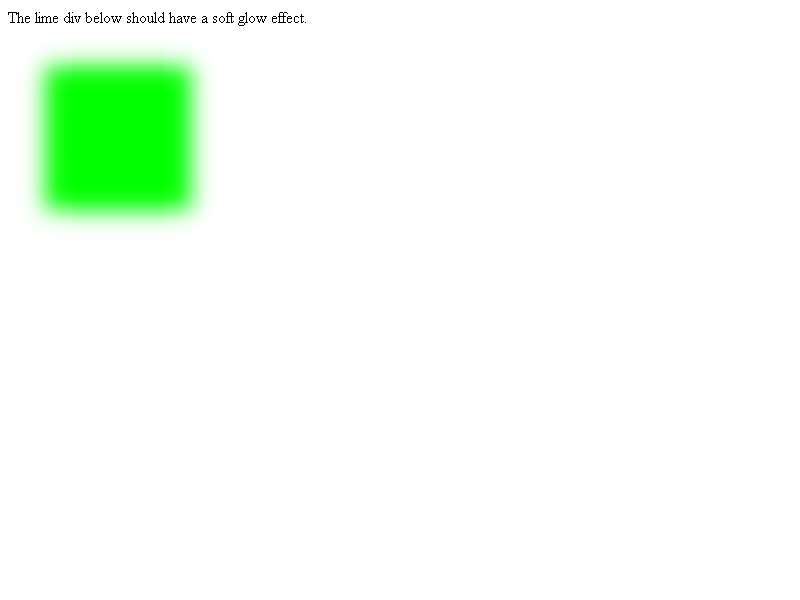
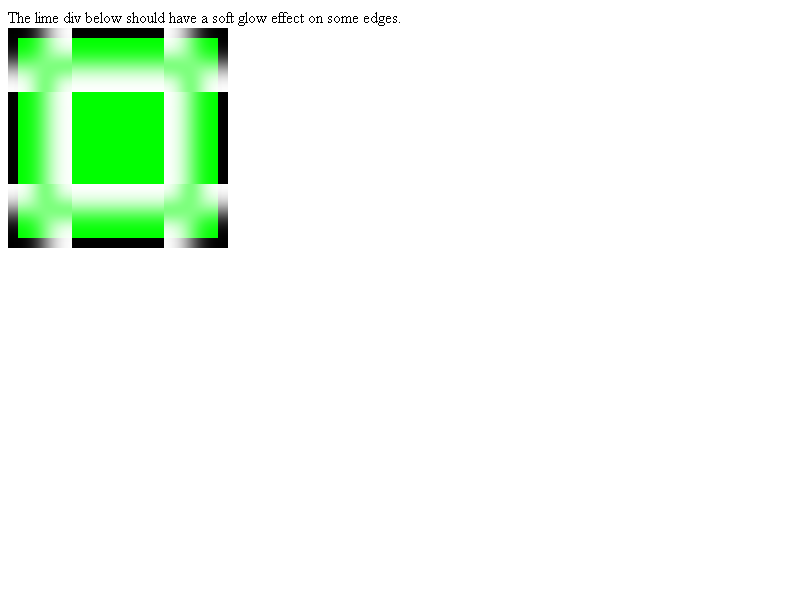
Keep mask bounds expanded to edges of div to fully mask dest_rect.
Mask execution closely follows background execution, which results in the
size of the mask being reduced to the exact size requested, rather than
filling out the dest_rect in BackgroundImageGeography::SetNoRepeatX and
::SetNoRepeatY. This CL puts the mask in the correct location, then
when we are creating the shader in image.cc, if the mask doesn't fill
out the dest_rect, decal tilemode is used to fill the rest with
transparency, which allows the mask to fill the full area.

Regarding the change to the fast/backgrounds/mask-composite.html test:
This change results in the original test failing, displaying the same
thing that it displays when using source-out. Based on my understanding
of how the 'copy' Porter-Duff keyword works, I believe this is correct
and that the test previously had an incorrect baseline because of this
bug. My understanding is that, if mask-composite is 'copy', then regardless
of the number of masks, only the first one will be displayed. The PD
definition of copy is that only the source mask is displayed, and since
this would be applied starting from the last two masks listed, moving up
to the first two, the end result is that only the first mask is displayed.
And, since this matches what happens when mask-composite:source-out is
used (and matches Edge and Firefox using 'subtract'), I just changed it
to a likely more commonly used keyword.

Bug: 917067
Commit-Queue: Mario Bianucci <mabian@microsoft.com>
Cr-Commit-Position: refs/heads/master@{#630004}

Changed region(s): [[0.0, 0.03, 0.3125, 0.42], [0.4688, 0.03, 0.5, 0.06]]

diff --git a/web_tests/css3/masking/mask-not-clipped.html b/web_tests/css3/masking/mask-not-clipped.html
@@ -1,0 +1,37 @@
+<!DOCTYPE html>
+<style>
+#mask {
+  width: 200px;
+  height: 200px;
+  background-color: red;
+  -webkit-mask-image: linear-gradient(black, black), linear-gradient(90deg, black, black);
+  -webkit-mask-size: 50% 100%, 100% 50%;
+  -webkit-mask-repeat: no-repeat;
+}
+#cover {
+  width: 100px;
+  height: 100px;
+  background-color: green;
+  position: absolute;
+  left: 0;
+  top: 0;
+}
+div {
+  display: inline-block;
+}
+</style>
+<p>There should be 2 green squares and a green rectangle below and no red.</p>
+<div style="position: absolute">
+  <div>
+    <div id="mask" style="-webkit-mask-composite: source-in;"></div>
+    <div id="cover"></div>
+  </div>
+  <div>
+    <div id="mask" style="-webkit-mask-composite: source-out;"></div>
+    <div id="cover" style="left: 204px;top:100px;"></div>
+  </div>
+  <div>
+    <div id="mask" style="-webkit-mask-composite: source-out; -webkit-mask-size: 50px; -webkit-mask-position: bottom right, top left;"></div>
+    <div id="cover" style="left: 558px; top:0px; height: 200px; width: 50px;"></div>
+  </div>
+</div>

diff --git a/web_tests/fast/backgrounds/mask-composite.html b/web_tests/fast/backgrounds/mask-composite.html
@@ -9,11 +9,11 @@
         -webkit-mask-position: top left, top right, bottom left, bottom right, top center, center right, bottom center, center left, center;
         -webkit-mask-origin: border;
         -webkit-mask-repeat: no-repeat, no-repeat, no-repeat, no-repeat, repeat-x, repeat-y, repeat-x, repeat-y, repeat;
-        -webkit-mask-composite: copy;
+        -webkit-mask-composite: xor;
 }
 
 </style>
 
-The lime div below should have a soft glow effect.
+The lime div below should have a soft glow effect on some edges.
 
 <div class="test"></div>

diff --git a/web_tests/css3/masking/mask-not-clipped-expected.html b/web_tests/css3/masking/mask-not-clipped-expected.html
@@ -1,0 +1,20 @@
+<!DOCTYPE html>
+<style>
+#cover {
+  width: 100px;
+  height: 100px;
+  background-color: green;
+  position: absolute;
+  left: 0;
+  top: 0;
+}
+div {
+  display: inline-block;
+}
+</style>
+<p>There should be 2 green squares and a green rectangle below and no red.</p>
+<div style="position: absolute">
+    <div id="cover"></div>
+    <div id="cover" style="left: 204px; top: 100px;"></div>
+    <div id="cover" style="left: 558px; top: 0px; height: 200px; width: 50px;"></div>
+</div>

diff --git a/renderer/core/paint/background_image_geometry.cc b/renderer/core/paint/background_image_geometry.cc
@@ -83,8 +83,26 @@ IntPoint AccumulatedScrollOffsetForFixedBackground(
 
 }  // anonymous namespace
 
-void BackgroundImageGeometry::SetNoRepeatX(LayoutUnit x_offset,
+bool NeedsFullSizeDestination(const FillLayer& fill_layer) {
+  // When dealing with a mask, the dest rect needs to maintain the full size
+  // and the mask should be expanded to fill it out. This allows the mask to
+  // correctly mask the entire area it is meant to. This is unnecessary on the
+  // last layer, so the normal background path is taken for efficiency when
+  // creating the paint shader later on.
+  return fill_layer.GetType() == EFillLayerType::kMask && fill_layer.Next() &&
+         fill_layer.Composite() != kCompositeSourceOver;
+}
+
+void BackgroundImageGeometry::SetNoRepeatX(const FillLayer& fill_layer,
+                                           LayoutUnit x_offset,
                                            LayoutUnit snapped_x_offset) {
+  if (NeedsFullSizeDestination(fill_layer)) {
+    SetPhaseX(-x_offset.ToFloat());
+    SetSpaceSize(
+        LayoutSize(unsnapped_dest_rect_.Width(), SpaceSize().Height()));
+    return;
+  }
+
   // The snapped offset may not yet be snapped, so make sure it is an integer.
   snapped_x_offset = LayoutUnit(RoundToInt(snapped_x_offset));
 
@@ -120,8 +138,16 @@ void BackgroundImageGeometry::SetNoRepeatX(LayoutUnit x_offset,
   SetSpaceSize(LayoutSize(LayoutUnit(), SpaceSize().Height()));
 }
 
-void BackgroundImageGeometry::SetNoRepeatY(LayoutUnit y_offset,
+void BackgroundImageGeometry::SetNoRepeatY(const FillLayer& fill_layer,
+                                           LayoutUnit y_offset,
                                            LayoutUnit snapped_y_offset) {
+  if (NeedsFullSizeDestination(fill_layer)) {
+    SetPhaseY(-y_offset.ToFloat());
+    SetSpaceSize(
+        LayoutSize(SpaceSize().Width(), unsnapped_dest_rect_.Height()));
+    return;
+  }
+
   // The snapped offset may not yet be snapped, so make sure it is an integer.
   snapped_y_offset = LayoutUnit(RoundToInt(snapped_y_offset));
 
@@ -978,7 +1004,7 @@ void BackgroundImageGeometry::Calculate(const LayoutBoxModelObject* container,
         fill_layer.BackgroundXOrigin() == BackgroundEdgeOrigin::kRight
             ? snapped_available_width - computed_x_position
             : computed_x_position;
-    SetNoRepeatX(unsnapped_box_offset.X() + x_offset,
+    SetNoRepeatX(fill_layer, unsnapped_box_offset.X() + x_offset,
                  snapped_box_offset.X() + snapped_x_offset);
     if (offset_in_background_.X() > tile_size_.Width())
       unsnapped_dest_rect_ = snapped_dest_rect_ = LayoutRect();
@@ -1009,7 +1035,7 @@ void BackgroundImageGeometry::Calculate(const LayoutBoxModelObject* container,
         fill_layer.BackgroundYOrigin() == BackgroundEdgeOrigin::kBottom
             ? snapped_available_height - computed_y_position
             : computed_y_position;
-    SetNoRepeatY(unsnapped_box_offset.Y() + y_offset,
+    SetNoRepeatY(fill_layer, unsnapped_box_offset.Y() + y_offset,
                  snapped_box_offset.Y() + snapped_y_offset);
     if (offset_in_background_.Y() > tile_size_.Height())
       unsnapped_dest_rect_ = snapped_dest_rect_ = LayoutRect();

diff --git a/renderer/core/paint/background_image_geometry.h b/renderer/core/paint/background_image_geometry.h
@@ -97,8 +97,12 @@ class BackgroundImageGeometry {
   void SetPhaseX(float x) { phase_.SetX(x); }
   void SetPhaseY(float y) { phase_.SetY(y); }
 
-  void SetNoRepeatX(LayoutUnit x_offset, LayoutUnit snapped_x_offset);
-  void SetNoRepeatY(LayoutUnit y_offset, LayoutUnit snapped_y_offset);
+  void SetNoRepeatX(const FillLayer&,
+                    LayoutUnit x_offset,
+                    LayoutUnit snapped_x_offset);
+  void SetNoRepeatY(const FillLayer&,
+                    LayoutUnit y_offset,
+                    LayoutUnit snapped_y_offset);
   void SetRepeatX(const FillLayer&,
                   LayoutUnit available_width,
                   LayoutUnit extra_offset);
